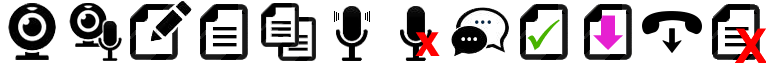
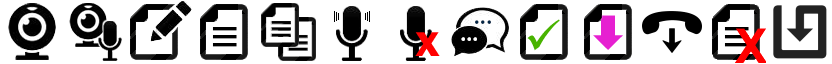
Can now save chat session in messenger.

diff --git a/public/scripts/amt-wsman-0.2.0-min.js b/public/scripts/amt-wsman-0.2.0-min.js
@@ -1,1 +1,1 @@
-var WsmanStackCreateService=function(e,s,r,a,o,t){var p={};function l(e){if(!e)return"";var s=" ";for(var r in e)e.hasOwnProperty(r)&&0===r.indexOf("@")&&(s+=r.substring(1)+'="'+e[r]+'" ');return s}function w(e){if(!e)return"";if("string"==typeof e)return e;if(e.InstanceID)return'<w:SelectorSet><w:Selector Name="InstanceID">'+e.InstanceID+"</w:Selector></w:SelectorSet>";var s="<w:SelectorSet>";for(var r in e)if(e.hasOwnProperty(r)){if(s+='<w:Selector Name="'+r+'">',e[r].ReferenceParameters){s+="<a:EndpointReference>",s+="<a:Address>"+e[r].Address+"</a:Address><a:ReferenceParameters><w:ResourceURI>"+e[r].ReferenceParameters.ResourceURI+"</w:ResourceURI><w:SelectorSet>";var a=e[r].ReferenceParameters.SelectorSet.Selector;if(Array.isArray(a))for(var o=0;o<a.length;o++)s+="<w:Selector"+l(a[o])+">"+a[o].Value+"</w:Selector>";else s+="<w:Selector"+l(a)+">"+a.Value+"</w:Selector>";s+="</w:SelectorSet></a:ReferenceParameters></a:EndpointReference>"}else s+=e[r];s+="</w:Selector>"}return s+="</w:SelectorSet>"}return p.NextMessageId=1,p.Address="/wsman",p.comm=CreateWsmanComm(e,s,r,a,o,t),p.PerformAjax=function(e,o,s,r,a){null==a&&(a=""),p.comm.PerformAjax('<?xml version=\"1.0\" encoding=\"utf-8\"?><Envelope xmlns:xsi="http://www.w3.org/2001/XMLSchema-instance" xmlns:xsd="http://www.w3.org/2001/XMLSchema" xmlns:a="http://schemas.xmlsoap.org/ws/2004/08/addressing" xmlns:w="http://schemas.dmtf.org/wbem/wsman/1/wsman.xsd" xmlns="http://www.w3.org/2003/05/soap-envelope" '+a+"><Header><a:Action>"+e,function(e,s,r){if(200==s){var a=p.ParseWsman(e);a&&null!=a?o(p,a.Header.ResourceURI,a,200,r):o(p,null,{Header:{HttpError:s}},601,r)}else o(p,null,{Header:{HttpError:s}},s,r)},s,r)},p.CancelAllQueries=function(e){p.comm.CancelAllQueries(e)},p.GetNameFromUrl=function(e){var s=e.lastIndexOf("/");return-1==s?e:e.substring(s+1)},p.ExecSubscribe=function(e,s,r,a,o,t,n,l,c,d){var m="",i="";null!=c&&null!=d&&(m="<t:IssuedTokens><t:RequestSecurityTokenResponse><t:TokenType>http://docs.oasis-open.org/wss/2004/01/oasis-200401-wss-username-token-profile-1.0#UsernameToken</t:TokenType><t:RequestedSecurityToken><se:UsernameToken><se:Username>"+c+'</se:Username><se:Password Type="http://docs.oasis-open.org/wss/2004/01/oasis-200401-wss-wssecurity-secext-1.0.xsd#PasswordText">'+d+"</se:Password></se:UsernameToken></t:RequestedSecurityToken></t:RequestSecurityTokenResponse></t:IssuedTokens>",i='<Auth Profile="http://schemas.xmlsoap.org/ws/2004/08/eventing/DeliveryModes/secprofile/http/digest"/>'),l=null!=l&&null!=l?"<a:ReferenceParameters>"+l+"</a:ReferenceParameters>":"";var u="http://schemas.xmlsoap.org/ws/2004/08/eventing/Subscribe</a:Action><a:To>"+p.Address+"</a:To><w:ResourceURI>"+e+"</w:ResourceURI><a:MessageID>"+p.NextMessageId+++"</a:MessageID><a:ReplyTo><a:Address>http://schemas.xmlsoap.org/ws/2004/08/addressing/role/anonymous</a:Address></a:ReplyTo>"+w(n)+m+'</Header><Body><e:Subscribe><e:Delivery Mode="http://schemas.dmtf.org/wbem/wsman/1/wsman/'+s+'"><e:NotifyTo><a:Address>'+r+"</a:Address></e:NotifyTo>"+i+"</e:Delivery><e:Expires>PT0.000000S</e:Expires></e:Subscribe>";p.PerformAjax(u+"</Body></Envelope>",a,o,t,'xmlns:e="http://schemas.xmlsoap.org/ws/2004/08/eventing" xmlns:t="http://schemas.xmlsoap.org/ws/2005/02/trust" xmlns:se="http://docs.oasis-open.org/wss/2004/01/oasis-200401-wss-wssecurity-secext-1.0.xsd" xmlns:m="http://x.com"')},p.ExecUnSubscribe=function(e,s,r,a,o){var t="http://schemas.xmlsoap.org/ws/2004/08/eventing/Unsubscribe</a:Action><a:To>"+p.Address+"</a:To><w:ResourceURI>"+e+"</w:ResourceURI><a:MessageID>"+p.NextMessageId+++"</a:MessageID><a:ReplyTo><a:Address>http://schemas.xmlsoap.org/ws/2004/08/addressing/role/anonymous</a:Address></a:ReplyTo>"+w(o)+"</Header><Body><e:Unsubscribe/>";p.PerformAjax(t+"</Body></Envelope>",s,r,a,'xmlns:e="http://schemas.xmlsoap.org/ws/2004/08/eventing"')},p.ExecPut=function(e,s,r,a,o,t){var n="http://schemas.xmlsoap.org/ws/2004/09/transfer/Put</a:Action><a:To>"+p.Address+"</a:To><w:ResourceURI>"+e+"</w:ResourceURI><a:MessageID>"+p.NextMessageId+++"</a:MessageID><a:ReplyTo><a:Address>http://schemas.xmlsoap.org/ws/2004/08/addressing/role/anonymous</a:Address></a:ReplyTo><w:OperationTimeout>PT60.000S</w:OperationTimeout>"+w(t)+"</Header><Body>"+function(e,s){if(!e||null==s)return"";var r=p.GetNameFromUrl(e),a="<r:"+r+' xmlns:r="'+e+'">';for(var o in s)if(s.hasOwnProperty(o)&&0!==o.indexOf("__")&&0!==o.indexOf("@")&&void 0!==s[o]&&null!==s[o]&&"function"!=typeof s[o])if("object"==typeof s[o]&&s[o].ReferenceParameters){a+="<r:"+o+"><a:Address>"+s[o].Address+"</a:Address><a:ReferenceParameters><w:ResourceURI>"+s[o].ReferenceParameters.ResourceURI+"</w:ResourceURI><w:SelectorSet>";var t=s[o].ReferenceParameters.SelectorSet.Selector;if(Array.isArray(t))for(var n=0;n<t.length;n++)a+="<w:Selector"+l(t[n])+">"+t[n].Value+"</w:Selector>";else a+="<w:Selector"+l(t)+">"+t.Value+"</w:Selector>";a+="</w:SelectorSet></a:ReferenceParameters></r:"+o+">"}else if(Array.isArray(s[o]))for(n=0;n<s[o].length;n++)a+="<r:"+o+">"+s[o][n].toString()+"</r:"+o+">";else a+="<r:"+o+">"+s[o].toString()+"</r:"+o+">";return a+="</r:"+r+">"}(e,s);p.PerformAjax(n+"</Body></Envelope>",r,a,o)},p.ExecCreate=function(e,s,r,a,o,t){var n=p.GetNameFromUrl(e),l="http://schemas.xmlsoap.org/ws/2004/09/transfer/Create</a:Action><a:To>"+p.Address+"</a:To><w:ResourceURI>"+e+"</w:ResourceURI><a:MessageID>"+p.NextMessageId+++"</a:MessageID><a:ReplyTo><a:Address>http://schemas.xmlsoap.org/ws/2004/08/addressing/role/anonymous</a:Address></a:ReplyTo><w:OperationTimeout>PT60S</w:OperationTimeout>"+w(t)+"</Header><Body><g:"+n+' xmlns:g="'+e+'">';for(var c in s)l+="<g:"+c+">"+s[c]+"</g:"+c+">";p.PerformAjax(l+"</g:"+n+"></Body></Envelope>",r,a,o)},p.ExecCreateXml=function(e,s,r,a,o){var t=p.GetNameFromUrl(e);p.PerformAjax("http://schemas.xmlsoap.org/ws/2004/09/transfer/Create</a:Action><a:To>"+p.Address+"</a:To><w:ResourceURI>"+e+"</w:ResourceURI><a:MessageID>"+p.NextMessageId+++"</a:MessageID><a:ReplyTo><a:Address>http://schemas.xmlsoap.org/ws/2004/08/addressing/role/anonymous</a:Address></a:ReplyTo><w:OperationTimeout>PT60.000S</w:OperationTimeout></Header><Body><r:"+t+' xmlns:r="'+e+'">'+s+"</r:"+t+"></Body></Envelope>",r,a,o)},p.ExecDelete=function(e,s,r,a,o){var t="http://schemas.xmlsoap.org/ws/2004/09/transfer/Delete</a:Action><a:To>"+p.Address+"</a:To><w:ResourceURI>"+e+"</w:ResourceURI><a:MessageID>"+p.NextMessageId+++"</a:MessageID><a:ReplyTo><a:Address>http://schemas.xmlsoap.org/ws/2004/08/addressing/role/anonymous</a:Address></a:ReplyTo><w:OperationTimeout>PT60S</w:OperationTimeout>"+w(s)+"</Header><Body /></Envelope>";p.PerformAjax(t,r,a,o)},p.ExecGet=function(e,s,r,a){p.PerformAjax("http://schemas.xmlsoap.org/ws/2004/09/transfer/Get</a:Action><a:To>"+p.Address+"</a:To><w:ResourceURI>"+e+"</w:ResourceURI><a:MessageID>"+p.NextMessageId+++"</a:MessageID><a:ReplyTo><a:Address>http://schemas.xmlsoap.org/ws/2004/08/addressing/role/anonymous</a:Address></a:ReplyTo><w:OperationTimeout>PT60S</w:OperationTimeout></Header><Body /></Envelope>",s,r,a)},p.ExecMethod=function(e,s,r,a,o,t,n){var l="";for(var c in r)if(null!=r[c])if(Array.isArray(r[c]))for(var d in r[c])l+="<r:"+c+">"+r[c][d]+"</r:"+c+">";else l+="<r:"+c+">"+r[c]+"</r:"+c+">";p.ExecMethodXml(e,s,l,a,o,t,n)},p.ExecMethodXml=function(e,s,r,a,o,t,n){p.PerformAjax(e+"/"+s+"</a:Action><a:To>"+p.Address+"</a:To><w:ResourceURI>"+e+"</w:ResourceURI><a:MessageID>"+p.NextMessageId+++"</a:MessageID><a:ReplyTo><a:Address>http://schemas.xmlsoap.org/ws/2004/08/addressing/role/anonymous</a:Address></a:ReplyTo><w:OperationTimeout>PT60S</w:OperationTimeout>"+w(n)+"</Header><Body><r:"+s+'_INPUT xmlns:r="'+e+'">'+r+"</r:"+s+"_INPUT></Body></Envelope>",a,o,t)},p.ExecEnum=function(e,s,r,a){p.PerformAjax("http://schemas.xmlsoap.org/ws/2004/09/enumeration/Enumerate</a:Action><a:To>"+p.Address+"</a:To><w:ResourceURI>"+e+"</w:ResourceURI><a:MessageID>"+p.NextMessageId+++'</a:MessageID><a:ReplyTo><a:Address>http://schemas.xmlsoap.org/ws/2004/08/addressing/role/anonymous</a:Address></a:ReplyTo><w:OperationTimeout>PT60S</w:OperationTimeout></Header><Body><Enumerate xmlns="http://schemas.xmlsoap.org/ws/2004/09/enumeration" /></Body></Envelope>',s,r,a)},p.ExecPull=function(e,s,r,a,o){p.PerformAjax("http://schemas.xmlsoap.org/ws/2004/09/enumeration/Pull</a:Action><a:To>"+p.Address+"</a:To><w:ResourceURI>"+e+"</w:ResourceURI><a:MessageID>"+p.NextMessageId+++'</a:MessageID><a:ReplyTo><a:Address>http://schemas.xmlsoap.org/ws/2004/08/addressing/role/anonymous</a:Address></a:ReplyTo><w:OperationTimeout>PT60S</w:OperationTimeout></Header><Body><Pull xmlns="http://schemas.xmlsoap.org/ws/2004/09/enumeration"><EnumerationContext>'+s+"</EnumerationContext><MaxElements>999</MaxElements><MaxCharacters>99999</MaxCharacters></Pull></Body></Envelope>",r,a,o)},p.ParseWsman=function(s){try{s.childNodes||(s=function(e){{if(window.DOMParser)return(new DOMParser).parseFromString(e,"text/xml");var s=new ActiveXObject("Microsoft.XMLDOM");return s.async=!1,s.loadXML(e),s}}(s));var e,r={Header:{}},a=s.getElementsByTagName("Header")[0];if(!(a=a||s.getElementsByTagName("a:Header")[0]))return null;for(var o=0;o<a.childNodes.length;o++){var t=a.childNodes[o];r.Header[t.localName]=t.textContent}var n=s.getElementsByTagName("Body")[0];return(n=n||s.getElementsByTagName("a:Body")[0])?(0<n.childNodes.length&&((e=n.childNodes[0].localName).indexOf("_OUTPUT")==e.length-7&&(e=e.substring(0,e.length-7)),r.Header.Method=e,r.Body=function e(s){var r,a={};for(var o=0;o<s.childNodes.length;o++){var t=s.childNodes[o];"true"==(r=0==t.childElementCount?t.textContent:e(t))&&(r=!0),"false"==r&&(r=!1);var n=r;if(0<t.attributes.length){n={Value:r};for(var l=0;l<t.attributes.length;l++)n["@"+t.attributes[l].name]=t.attributes[l].value}a[t.localName]instanceof Array?a[t.localName].push(n):null==a[t.localName]?a[t.localName]=n:a[t.localName]=[a[t.localName],n]}return a}(n.childNodes[0])),r):null}catch(e){return console.log("Unable to parse XML: "+s),null}},p}
+var WsmanStackCreateService=function(e,s,r,a,o,t){var p={};function l(e){if(!e)return"";var s=" ";for(var r in e)e.hasOwnProperty(r)&&0===r.indexOf("@")&&(s+=r.substring(1)+'="'+e[r]+'" ');return s}function w(e){if(!e)return"";if("string"==typeof e)return e;if(e.InstanceID)return'<w:SelectorSet><w:Selector Name="InstanceID">'+e.InstanceID+"</w:Selector></w:SelectorSet>";var s="<w:SelectorSet>";for(var r in e)if(e.hasOwnProperty(r)){if(s+='<w:Selector Name="'+r+'">',e[r].ReferenceParameters){s+="<a:EndpointReference>",s+="<a:Address>"+e[r].Address+"</a:Address><a:ReferenceParameters><w:ResourceURI>"+e[r].ReferenceParameters.ResourceURI+"</w:ResourceURI><w:SelectorSet>";var a=e[r].ReferenceParameters.SelectorSet.Selector;if(Array.isArray(a))for(var o=0;o<a.length;o++)s+="<w:Selector"+l(a[o])+">"+a[o].Value+"</w:Selector>";else s+="<w:Selector"+l(a)+">"+a.Value+"</w:Selector>";s+="</w:SelectorSet></a:ReferenceParameters></a:EndpointReference>"}else s+=e[r];s+="</w:Selector>"}return s+="</w:SelectorSet>"}return p.NextMessageId=1,p.Address="/wsman",p.comm=CreateWsmanComm(e,s,r,a,o,t),p.PerformAjax=function(e,o,s,r,a){null==a&&(a=""),p.comm.PerformAjax('<?xml version=\"1.0\" encoding=\"utf-8\"?><Envelope xmlns:xsi="http://www.w3.org/2001/XMLSchema-instance" xmlns:xsd="http://www.w3.org/2001/XMLSchema" xmlns:a="http://schemas.xmlsoap.org/ws/2004/08/addressing" xmlns:w="http://schemas.dmtf.org/wbem/wsman/1/wsman.xsd" xmlns="http://www.w3.org/2003/05/soap-envelope" '+a+"><Header><a:Action>"+e,function(e,s,r){if(200==s){var a=p.ParseWsman(e);a&&null!=a?o(p,a.Header.ResourceURI,a,200,r):o(p,null,{Header:{HttpError:s}},601,r)}else o(p,null,{Header:{HttpError:s}},s,r)},s,r)},p.CancelAllQueries=function(e){p.comm.CancelAllQueries(e)},p.GetNameFromUrl=function(e){var s=e.lastIndexOf("/");return-1==s?e:e.substring(s+1)},p.ExecSubscribe=function(e,s,r,a,o,t,n,l,d,c){var m="",i="";null!=d&&null!=c&&(m="<t:IssuedTokens><t:RequestSecurityTokenResponse><t:TokenType>http://docs.oasis-open.org/wss/2004/01/oasis-200401-wss-username-token-profile-1.0#UsernameToken</t:TokenType><t:RequestedSecurityToken><se:UsernameToken><se:Username>"+d+'</se:Username><se:Password Type="http://docs.oasis-open.org/wss/2004/01/oasis-200401-wss-wssecurity-secext-1.0.xsd#PasswordText">'+c+"</se:Password></se:UsernameToken></t:RequestedSecurityToken></t:RequestSecurityTokenResponse></t:IssuedTokens>",i='<Auth Profile="http://schemas.xmlsoap.org/ws/2004/08/eventing/DeliveryModes/secprofile/http/digest"/>'),l=null!=l&&null!=l?"<a:ReferenceParameters>"+l+"</a:ReferenceParameters>":"";var u="http://schemas.xmlsoap.org/ws/2004/08/eventing/Subscribe</a:Action><a:To>"+p.Address+"</a:To><w:ResourceURI>"+e+"</w:ResourceURI><a:MessageID>"+p.NextMessageId+++"</a:MessageID><a:ReplyTo><a:Address>http://schemas.xmlsoap.org/ws/2004/08/addressing/role/anonymous</a:Address></a:ReplyTo>"+w(n)+m+'</Header><Body><e:Subscribe><e:Delivery Mode="http://schemas.dmtf.org/wbem/wsman/1/wsman/'+s+'"><e:NotifyTo><a:Address>'+r+"</a:Address></e:NotifyTo>"+i+"</e:Delivery><e:Expires>PT0.000000S</e:Expires></e:Subscribe>";p.PerformAjax(u+"</Body></Envelope>",a,o,t,'xmlns:e="http://schemas.xmlsoap.org/ws/2004/08/eventing" xmlns:t="http://schemas.xmlsoap.org/ws/2005/02/trust" xmlns:se="http://docs.oasis-open.org/wss/2004/01/oasis-200401-wss-wssecurity-secext-1.0.xsd" xmlns:m="http://x.com"')},p.ExecUnSubscribe=function(e,s,r,a,o){var t="http://schemas.xmlsoap.org/ws/2004/08/eventing/Unsubscribe</a:Action><a:To>"+p.Address+"</a:To><w:ResourceURI>"+e+"</w:ResourceURI><a:MessageID>"+p.NextMessageId+++"</a:MessageID><a:ReplyTo><a:Address>http://schemas.xmlsoap.org/ws/2004/08/addressing/role/anonymous</a:Address></a:ReplyTo>"+w(o)+"</Header><Body><e:Unsubscribe/>";p.PerformAjax(t+"</Body></Envelope>",s,r,a,'xmlns:e="http://schemas.xmlsoap.org/ws/2004/08/eventing"')},p.ExecPut=function(e,s,r,a,o,t){var n="http://schemas.xmlsoap.org/ws/2004/09/transfer/Put</a:Action><a:To>"+p.Address+"</a:To><w:ResourceURI>"+e+"</w:ResourceURI><a:MessageID>"+p.NextMessageId+++"</a:MessageID><a:ReplyTo><a:Address>http://schemas.xmlsoap.org/ws/2004/08/addressing/role/anonymous</a:Address></a:ReplyTo><w:OperationTimeout>PT60.000S</w:OperationTimeout>"+w(t)+"</Header><Body>"+function(e,s){if(!e||null==s)return"";var r=p.GetNameFromUrl(e),a="<r:"+r+' xmlns:r="'+e+'">';for(var o in s)if(s.hasOwnProperty(o)&&0!==o.indexOf("__")&&0!==o.indexOf("@")&&void 0!==s[o]&&null!==s[o]&&"function"!=typeof s[o])if("object"==typeof s[o]&&s[o].ReferenceParameters){a+="<r:"+o+"><a:Address>"+s[o].Address+"</a:Address><a:ReferenceParameters><w:ResourceURI>"+s[o].ReferenceParameters.ResourceURI+"</w:ResourceURI><w:SelectorSet>";var t=s[o].ReferenceParameters.SelectorSet.Selector;if(Array.isArray(t))for(var n=0;n<t.length;n++)a+="<w:Selector"+l(t[n])+">"+t[n].Value+"</w:Selector>";else a+="<w:Selector"+l(t)+">"+t.Value+"</w:Selector>";a+="</w:SelectorSet></a:ReferenceParameters></r:"+o+">"}else if(Array.isArray(s[o]))for(n=0;n<s[o].length;n++)a+="<r:"+o+">"+s[o][n].toString()+"</r:"+o+">";else a+="<r:"+o+">"+s[o].toString()+"</r:"+o+">";return a+="</r:"+r+">"}(e,s);p.PerformAjax(n+"</Body></Envelope>",r,a,o)},p.ExecCreate=function(e,s,r,a,o,t){var n=p.GetNameFromUrl(e),l="http://schemas.xmlsoap.org/ws/2004/09/transfer/Create</a:Action><a:To>"+p.Address+"</a:To><w:ResourceURI>"+e+"</w:ResourceURI><a:MessageID>"+p.NextMessageId+++"</a:MessageID><a:ReplyTo><a:Address>http://schemas.xmlsoap.org/ws/2004/08/addressing/role/anonymous</a:Address></a:ReplyTo><w:OperationTimeout>PT60S</w:OperationTimeout>"+w(t)+"</Header><Body><g:"+n+' xmlns:g="'+e+'">';for(var d in s)l+="<g:"+d+">"+s[d]+"</g:"+d+">";p.PerformAjax(l+"</g:"+n+"></Body></Envelope>",r,a,o)},p.ExecCreateXml=function(e,s,r,a,o){var t=p.GetNameFromUrl(e);p.PerformAjax("http://schemas.xmlsoap.org/ws/2004/09/transfer/Create</a:Action><a:To>"+p.Address+"</a:To><w:ResourceURI>"+e+"</w:ResourceURI><a:MessageID>"+p.NextMessageId+++"</a:MessageID><a:ReplyTo><a:Address>http://schemas.xmlsoap.org/ws/2004/08/addressing/role/anonymous</a:Address></a:ReplyTo><w:OperationTimeout>PT60.000S</w:OperationTimeout></Header><Body><r:"+t+' xmlns:r="'+e+'">'+s+"</r:"+t+"></Body></Envelope>",r,a,o)},p.ExecDelete=function(e,s,r,a,o){var t="http://schemas.xmlsoap.org/ws/2004/09/transfer/Delete</a:Action><a:To>"+p.Address+"</a:To><w:ResourceURI>"+e+"</w:ResourceURI><a:MessageID>"+p.NextMessageId+++"</a:MessageID><a:ReplyTo><a:Address>http://schemas.xmlsoap.org/ws/2004/08/addressing/role/anonymous</a:Address></a:ReplyTo><w:OperationTimeout>PT60S</w:OperationTimeout>"+w(s)+"</Header><Body /></Envelope>";p.PerformAjax(t,r,a,o)},p.ExecGet=function(e,s,r,a){p.PerformAjax("http://schemas.xmlsoap.org/ws/2004/09/transfer/Get</a:Action><a:To>"+p.Address+"</a:To><w:ResourceURI>"+e+"</w:ResourceURI><a:MessageID>"+p.NextMessageId+++"</a:MessageID><a:ReplyTo><a:Address>http://schemas.xmlsoap.org/ws/2004/08/addressing/role/anonymous</a:Address></a:ReplyTo><w:OperationTimeout>PT60S</w:OperationTimeout></Header><Body /></Envelope>",s,r,a)},p.ExecMethod=function(e,s,r,a,o,t,n){var l="";for(var d in r)if(null!=r[d])if(Array.isArray(r[d]))for(var c in r[d])l+="<r:"+d+">"+r[d][c]+"</r:"+d+">";else l+="<r:"+d+">"+r[d]+"</r:"+d+">";p.ExecMethodXml(e,s,l,a,o,t,n)},p.ExecMethodXml=function(e,s,r,a,o,t,n){p.PerformAjax(e+"/"+s+"</a:Action><a:To>"+p.Address+"</a:To><w:ResourceURI>"+e+"</w:ResourceURI><a:MessageID>"+p.NextMessageId+++"</a:MessageID><a:ReplyTo><a:Address>http://schemas.xmlsoap.org/ws/2004/08/addressing/role/anonymous</a:Address></a:ReplyTo><w:OperationTimeout>PT60S</w:OperationTimeout>"+w(n)+"</Header><Body><r:"+s+'_INPUT xmlns:r="'+e+'">'+r+"</r:"+s+"_INPUT></Body></Envelope>",a,o,t)},p.ExecEnum=function(e,s,r,a){p.PerformAjax("http://schemas.xmlsoap.org/ws/2004/09/enumeration/Enumerate</a:Action><a:To>"+p.Address+"</a:To><w:ResourceURI>"+e+"</w:ResourceURI><a:MessageID>"+p.NextMessageId+++'</a:MessageID><a:ReplyTo><a:Address>http://schemas.xmlsoap.org/ws/2004/08/addressing/role/anonymous</a:Address></a:ReplyTo><w:OperationTimeout>PT60S</w:OperationTimeout></Header><Body><Enumerate xmlns="http://schemas.xmlsoap.org/ws/2004/09/enumeration" /></Body></Envelope>',s,r,a)},p.ExecPull=function(e,s,r,a,o){p.PerformAjax("http://schemas.xmlsoap.org/ws/2004/09/enumeration/Pull</a:Action><a:To>"+p.Address+"</a:To><w:ResourceURI>"+e+"</w:ResourceURI><a:MessageID>"+p.NextMessageId+++'</a:MessageID><a:ReplyTo><a:Address>http://schemas.xmlsoap.org/ws/2004/08/addressing/role/anonymous</a:Address></a:ReplyTo><w:OperationTimeout>PT60S</w:OperationTimeout></Header><Body><Pull xmlns="http://schemas.xmlsoap.org/ws/2004/09/enumeration"><EnumerationContext>'+s+"</EnumerationContext><MaxElements>999</MaxElements><MaxCharacters>99999</MaxCharacters></Pull></Body></Envelope>",r,a,o)},p.ParseWsman=function(s){try{s.childNodes||(s=function(e){{if(window.DOMParser)return(new DOMParser).parseFromString(e,"text/xml");var s=new ActiveXObject("Microsoft.XMLDOM");return s.async=!1,s.loadXML(e),s}}(s));var e,r={Header:{}},a=s.getElementsByTagName("Header")[0];if(!(a=a||s.getElementsByTagName("a:Header")[0]))return null;for(var o=0;o<a.childNodes.length;o++){var t=a.childNodes[o];r.Header[t.localName]=t.textContent}var n=s.getElementsByTagName("Body")[0];return(n=n||s.getElementsByTagName("a:Body")[0])?(0<n.childNodes.length&&((e=n.childNodes[0].localName).indexOf("_OUTPUT")==e.length-7&&(e=e.substring(0,e.length-7)),r.Header.Method=e,r.Body=function e(s){var r,a={};for(var o=0;o<s.childNodes.length;o++){var t=s.childNodes[o];"true"==(r=0==t.childElementCount?t.textContent:e(t))&&(r=!0),"false"==r&&(r=!1);var n=r;if(0<t.attributes.length){n={Value:r};for(var l=0;l<t.attributes.length;l++)n["@"+t.attributes[l].name]=t.attributes[l].value}a[t.localName]instanceof Array?a[t.localName].push(n):null==a[t.localName]?a[t.localName]=n:a[t.localName]=[a[t.localName],n]}return a}(n.childNodes[0])),r):null}catch(e){return console.log("Unable to parse XML: "+s),null}},p}

diff --git a/public/styles/messenger.css b/public/styles/messenger.css
@@ -119,6 +119,11 @@
     background-color: gray;
 }
 
+.icon15 {
+    background: url(../images/messenger32.png) -448px 0px;
+    background-color: gray;
+}
+
 .fileicon {
     background: url(../images/messenger32.png) -96px 0px;
     height: 32px;
